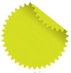
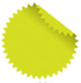
desconto da pagina da oferta pronto

diff --git a/app/assets/stylesheets/klepper_css.css b/app/assets/stylesheets/klepper_css.css
@@ -28,9 +28,6 @@ body { font:12px; *font-size:small; font-family: 'Gotham Book', 'Lucida Grande';
 .list-conteudo .left.tx-off ul li { font-size:12px; line-height:18px; }
 .list-conteudo .left.off { width:129px; margin-right:26px; }
 .list-conteudo .left.off h5 { display: block; padding:5px 0; font-weight: normal; font-size: 13px; text-align: center; width:91px; margin:0 auto;  }
-.list-conteudo .left.off .preco-off { width:129px; padding: 51px 0 43px; text-align:center; background: url(green_discount_big.png) no-repeat; min-height: 32px; }
-.list-conteudo .left.off .preco-off h4 { font-size: 11px; color: #fff; margin-bottom:0; font-weight: normal; }
-.list-conteudo .left.off .preco-off h4 span { color: white; font-size: 19px; text-decoration:none; font-weight: bold; }
 .list-conteudo .left.off h4 { text-align:center; font-size:11px; margin-bottom:10px; text-transform:uppercase; font-weight: normal; }
 .list-conteudo .left.off h4 span { color: #ff6162; display: block; font-size:18px; text-decoration:line-through; }
 

diff --git a/app/assets/stylesheets/deals.css.scss b/app/assets/stylesheets/deals.css.scss
@@ -81,6 +81,31 @@ body {
       }
     }
 
+    .deals_info_center {
+      float: left;
+      width: 343px;
+      height: 230px;
+      background: image-url('deals_background.png') no-repeat 0 0;
+      margin: 15px;
+      padding: 5px 5px 5px 75px;
+
+      .preco-off {
+        width:129px;
+        padding: 31px 0 16px;
+        text-align: center;
+        background: image-url('green_discount.png') no-repeat;
+        min-height: 32px;
+        margin: 2px 15px;
+
+        h4 {
+          color: #fff;
+          margin-bottom: 0;
+          font-size: 18pt;
+          font-family: 'Gotham Medium';
+        }
+      }
+    }
+
     .detalhe-oferta {
 
       .left.tx-off {
